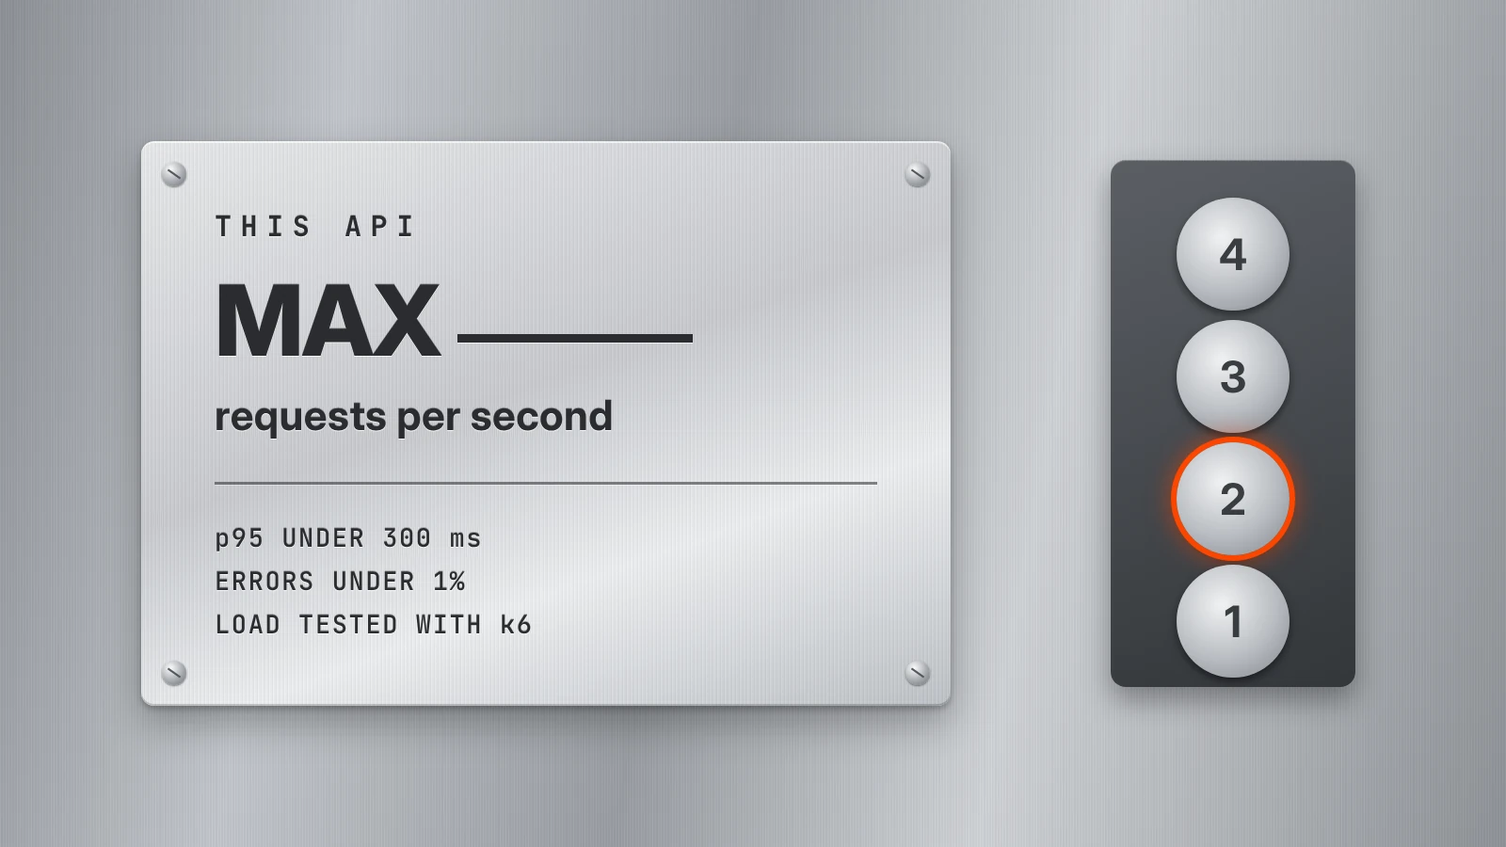
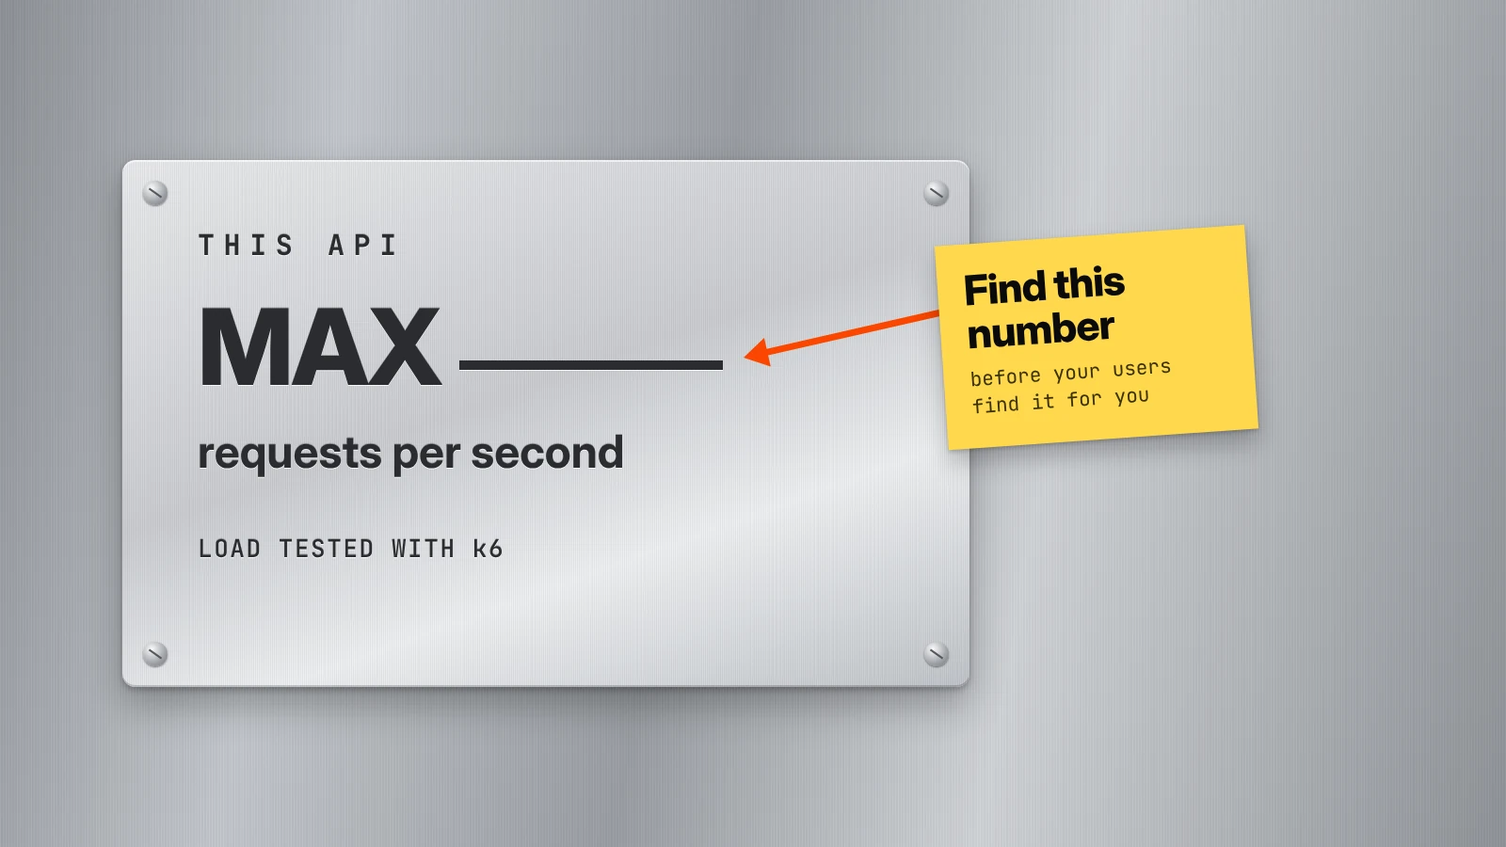
Rewrite the k6 post in plain language, with clearer pictures
- Simpler wording throughout; every term (virtual user, p95, threshold,
  arrival rate) is explained the first time it appears.
- Pictures redrawn to explain themselves: a "find this number" note on
  the cover, a new "how k6 works" picture, plain labels on the test
  types, a legend and counts on the virtual users vs real visitors
  timeline, and named zones on the knee chart.
- Phone-sized versions of each diagram (name.mobile.webp) are used on
  small screens, where the wide versions' text would be too small.

Claude-Session: https://claude.ai/code/session_01YYprVqCaWrQBqQXPepenWM

Changed region(s): [[0.0625, 0.1556, 0.9062, 0.84], [0.125, 0.2489, 0.5625, 0.5911], [0.125, 0.6222, 0.375, 0.7467]]

diff --git a/posts.plugin.ts b/posts.plugin.ts
@@ -3,7 +3,7 @@
 //   post.md?html  ->  export default "<p>...</p>"
 // Two separate modules, so pages that only list posts never download a post's HTML.
 // Markdown parsing and code highlighting happen here, so none of it ships to the browser.
-import { readFileSync } from "node:fs";
+import { existsSync, readFileSync } from "node:fs";
 import { basename, join } from "node:path";
 import { imageSize } from "image-size";
 import { Marked, Renderer, type Tokens } from "marked";
@@ -75,7 +75,14 @@ export default function posts(): Plugin {
         const loading = imagesSeen++ === 0 ? 'fetchpriority="high"' : 'loading="lazy"';
         const cover = imagesSeen === 1;
         let img = `<img src="${esc(href)}" alt="${esc(text)}" width="${width}" height="${height}" ${loading} decoding="async">`;
-        // Diagrams are dense on a phone: tapping one opens it full size.
+        // A phone-sized version next to the image (diagram.mobile.webp) is used on small screens,
+        // where the wide version's text would be too small to read.
+        const mobile = href.replace(/(\.[a-z]+)$/, ".mobile$1");
+        if (existsSync(join(publicDir, mobile))) {
+          const m = sizeOf(mobile);
+          img = `<picture><source media="(max-width: 560px)" srcset="${esc(mobile)}" width="${m.width}" height="${m.height}">${img}</picture>`;
+        }
+        // Tapping a diagram opens it full size.
         if (!cover) img = `<a class="post-figure__zoom" href="${esc(href)}" target="_blank" rel="noopener">${img}<span class="sr-only"> (opens full size)</span></a>`;
         return `<figure class="post-figure${cover ? " post-figure--cover" : ""}">${img}${title ? `<figcaption>${esc(title)}</figcaption>` : ""}</figure>`;
       },

diff --git a/src/pages/PostPage.tsx b/src/pages/PostPage.tsx
@@ -42,7 +42,7 @@ export default function PostPage({ post, html }: PostPageProps) {
   useCopyButtons(articleRef);
 
   // Image paths in the post are site-absolute; file() keeps them working in relative builds.
-  const body = html.replace(/(src|href)="\/images\//g, `$1="${file("/images/")}`);
+  const body = html.replace(/(src|srcset|href)="\/images\//g, `$1="${file("/images/")}`);
 
   return (
     <>

diff --git a/src/posts/will-it-break-in-prod.md b/src/posts/will-it-break-in-prod.md
@@ -1,55 +1,57 @@
 ---
 title: Will It Break in Prod?
-description: Your tests check one user at a time. Production never sends you one user at a time. How to use k6 to find your app's limit before your users do.
+description: Your app works when you test it alone. Here's how to find out what happens when hundreds of people use it at once, with a free tool called k6.
 date: 2026-11-10
 tags: performance, testing, k6
 cover: /images/writing/will-it-break-in-prod/cover.webp
-coverAlt: A brushed-metal capacity plate, like the one inside an elevator, that reads "This API. Max ___ requests per second. p95 under 300 ms. Errors under 1%. Load tested with k6."
+coverAlt: A metal capacity plate, like the one inside an elevator, that reads "This API. Max ___ requests per second." A sticky note next to the blank says "find this number".
 ---
 
-**Your app passed every test. That proves it works for one person at a time. Production never sends you one person at a time.**
+**Your app works when you test it. But when you test it, you're one person. Real users show up hundreds at a time.**
 
-![A brushed-metal capacity plate, like the one inside an elevator, that reads "This API. Max ___ requests per second. p95 under 300 ms. Errors under 1%. Load tested with k6."](/images/writing/will-it-break-in-prod/cover.webp)
+![A metal capacity plate, like the one inside an elevator, that reads "This API. Max ___ requests per second." A sticky note next to the blank says "find this number".](/images/writing/will-it-break-in-prod/cover.webp)
 
-Every elevator has a small metal plate inside: *max 13 persons, 1,000 kg*. Nobody guessed that number. Someone loaded the elevator until they knew where the limit was, then wrote it down with a margin.
+Every elevator has a small metal plate inside that says something like *max 13 people*. Nobody guessed that number. Someone loaded the elevator until they found its limit, then wrote it down with some room to spare.
 
-Most APIs ship without that plate. We know the endpoint returns the right answer. We don't know how many people it can serve before it slows down, starts timing out, or falls over. Usually we find out on the day real traffic shows up.
+Most apps don't have that plate. We know the app gives the right answer. We don't know how many people it can handle before it gets slow or stops working. Usually we find out the hard way, on the day a lot of people show up.
 
-This post is about finding that number first, with k6.
+This post shows how to find that number before your users do, with a free tool called k6.
 
-### Aren't My Tests Enough?
+### Why Don't My Tests Catch This?
 
-Unit and integration tests answer one question: *is it correct?* They usually ask it with a single caller, on a quiet machine, against a tiny database.
+Normal tests check that your code gives the right answer. They do it one request at a time, on a quiet computer, with a small database. That's not what production looks like.
 
-The bugs that take an app down in production mostly don't exist at that scale. They show up when requests overlap:
+Most things that break under load only break when many requests arrive at the same time:
 
-- **The connection pool runs out.** Spring Boot's default pool (HikariCP) holds 10 database connections. Request 11 waits in line, and so does everyone after it.
-- **Threads run out.** Tomcat handles 200 requests at a time by default. Request 201 queues.
-- **A query that takes 5 ms alone** can take far longer when 50 copies of it fight over the same rows.
-- **An N+1 query**, one query for the list and one more for every item in it, is invisible with one user and painful with a hundred.
-- **Memory fills up slowly**, and garbage collection pauses start showing up in your response times hours later.
+- **Too many requests wait for the database.** Your app keeps a small set of database connections and shares them. Spring Boot's default is 10. If 50 requests need the database at once, 40 of them wait in line.
+- **The server runs out of workers.** A server works on a limited number of requests at once (200 by default in Spring Boot). Everyone else waits.
+- **Requests get in each other's way.** A query that takes 5 ms on its own can take much longer when 50 copies of it try to change the same rows.
+- **Small waste adds up.** Code that runs one extra database query for every item in a list is fine with one user and painful with a hundred.
+- **Memory slowly fills up.** Everything looks fine for a while, then the app starts pausing to clean up memory and responses get slow.
 
-None of this fails a unit test. It usually goes like this:
+None of these show up in a normal test. In real life it goes like this:
 
 > **Me:** It's fast. 12 ms on my laptop.
 >
 > **Production, Monday 9 AM:** Cool. Here are 400 people.
 
-### So What Is k6?
+### What Is k6?
 
-[k6](https://grafana.com/oss/k6/) is an open-source load testing tool from Grafana Labs. Its own tagline is "like unit testing, for performance," which is a fair description. You write the test in JavaScript, and k6 runs it from a single Go binary, so one laptop can pretend to be hundreds of users.
+k6 is a free, open-source tool from Grafana Labs for load testing: sending a lot of traffic to your app on purpose to see how it holds up.
 
-The main idea is the **virtual user (VU)**. A VU is a loop that runs your test function over and over, like one person clicking through your app. Ask for 50 VUs and k6 runs 50 of those loops at the same time, then measures every request they make.
+You write a short JavaScript script that describes what one visitor does, like "open this page." Then you tell k6 how many visitors to pretend to be. k6 calls these pretend visitors **virtual users**. Each one runs your script over and over, and k6 times every request and counts the ones that fail.
 
-On a Mac, installing it is one line:
+![A diagram in four steps. k6 runs on your laptop. It starts virtual users, which are pretend visitors that repeat your script. They send requests to your app. k6 then reports how fast your app answered and how many requests failed.](/images/writing/will-it-break-in-prod/how-k6-works.webp "k6 pretends to be many visitors at once, then tells you how your app held up.")
+
+To install it on a Mac:
 
 ```bash
 brew install k6
 ```
 
-### What Does the Simplest Test Look Like?
+### Your First Test
 
-Start with a **smoke test**: one user, thirty seconds. It tells you nothing about load yet. It tells you the script works and the endpoint answers.
+Start small. This script pretends to be one visitor for 30 seconds:
 
 ```js
 import http from "k6/http";
@@ -71,25 +73,30 @@ export default function () {
 }
 ```
 
-Run it with `k6 run smoke.js`. When it finishes, k6 prints a summary: how many requests went out, how many failed, and how long they took.
+Save it as `smoke.js` and run `k6 run smoke.js`. Here's what each part does:
 
-`check` works like an assertion that doesn't stop the test. It counts passes and failures, so you see "98% of responses were 200" instead of a crash on the first bad one.
+- `vus: 1` and `duration: "30s"`: one virtual user, for 30 seconds.
+- `http.get(...)`: the visitor opens this address.
+- `check(...)`: makes sure the answer is right (status 200 means "OK"). A failed check doesn't stop the test. k6 just counts how many passed.
+- `sleep(1)`: wait one second, like a real person reading the page before clicking again.
+
+This is called a **smoke test**. It doesn't tell you anything about heavy traffic yet. It just proves the script works before you turn up the volume.
 
 ### What Does "Fast Enough" Mean?
 
-Before adding users, decide what passing looks like. Here's the trap: **averages lie.**
+Before adding more users, decide what "good" looks like. Watch out for one trap: **the average lies.**
 
-Say 100 requests come in. 90 of them take 20 ms and 10 of them take 2 seconds.
+Imagine 100 requests. 90 of them take 20 ms. The other 10 take 2 full seconds.
 
-| Stat | Value | What it tells you |
+| Measure | Result | What it makes you think |
 | --- | --- | --- |
-| Average | 218 ms | "Looks fine." |
-| Median (p50) | 20 ms | "Looks great." |
-| p95 | 2,000 ms | Real people waited two seconds. |
+| Average | 218 ms | "Fine." |
+| Median | 20 ms | "Great." |
+| p95 | 2,000 ms | "Some people waited two seconds." |
 
-p95 is the time that 95% of requests finished within. It looks at the slow end, and the slow end is where users get annoyed and leave.
+**p95** is the time that 95 out of 100 requests finished within. It looks at the slowest part of your traffic, and that's the part people notice.
 
-In k6 you write the passing line down as a **threshold**:
+In k6 you write your goal down as a **threshold**, a pass or fail line:
 
 ```js
 export const options = {
@@ -100,50 +107,50 @@ export const options = {
 };
 ```
 
-If any threshold fails, k6 marks the run as failed and exits with code 99. So you can put a short k6 test in CI and fail the build when a change makes things slower, the same way a failing unit test does.
+If either line is crossed, k6 marks the test as failed and exits with code 99. So you can run it automatically on every code change and catch a slowdown before it ships, the same way a failing unit test stops a bug.
 
-Where does 300 ms come from? From what your users need, not from what your app happens to do today.
+How do you pick 300 ms? From what your users need, not from whatever your app happens to do today.
 
-### How Many Users Is "a Lot"?
+### How Many Users Should I Test With?
 
-Different questions need different shapes of load. The k6 docs group them into a handful of test types:
+Different questions need different kinds of tests. The k6 docs name six:
 
-![Six small charts of virtual users over time: smoke is flat and low, average load ramps up and holds, stress ramps higher and holds, spike jumps up and drops, soak holds a normal level for a long time, and breakpoint keeps rising.](/images/writing/will-it-break-in-prod/test-types.webp "Same script, six shapes of load.")
+![Six small charts of users over time. Smoke: one or two users. Average load: climb to normal traffic and stay there. Stress: climb above normal and stay there. Spike: jump to a lot of users at once, then drop. Soak: normal traffic for hours. Breakpoint: keep adding users until the app fails.](/images/writing/will-it-break-in-prod/test-types.webp "Same script, six kinds of traffic.")
 
-| Test | The question it answers | Shape |
+| Test | The question it answers | What the traffic looks like |
 | --- | --- | --- |
-| Smoke | Does the script even work? | 1–2 users, a minute or two |
-| Average load | Are we fine on a normal day? | Ramp up to normal traffic, hold it |
-| Stress | Are we fine on the busiest day? | Ramp above normal traffic, hold it |
-| Spike | What if everyone shows up at once? | Jump straight to a lot, then drop |
+| Smoke | Does my script even work? | 1–2 users for a minute or two |
+| Average load | Are we fine on a normal day? | Climb to normal traffic and stay there |
+| Stress | Are we fine on our busiest day? | Climb above normal traffic and stay there |
+| Spike | What if everyone shows up at once? | Jump straight to a lot of users, then drop |
 | Soak | Do we stay fine for hours? | Normal traffic, for a long time |
-| Breakpoint | Where exactly do we break? | Keep adding load until something fails |
+| Breakpoint | Where exactly do we break? | Keep adding users until something fails |
 
-To shape the load, use `stages`. Each stage moves the number of VUs to a target over a duration:
+You describe the shape with `stages`. Each stage says "get to this many users over this much time":
 
 ```js
 export const options = {
   stages: [
-    { duration: "2m", target: 50 }, // ramp up to 50 users
-    { duration: "5m", target: 50 }, // stay there
-    { duration: "2m", target: 0 },  // ramp down
+    { duration: "2m", target: 50 }, // climb to 50 users over 2 minutes
+    { duration: "5m", target: 50 }, // stay at 50 for 5 minutes
+    { duration: "2m", target: 0 },  // go back down to 0
   ],
 };
 ```
 
-What counts as normal traffic? If you have real numbers, use them: requests per second at your busiest hour, from your logs or monitoring. If you don't have traffic yet, estimate, and write down that it's an estimate so nobody mistakes it for a measurement later.
+Where do the numbers come from? If your app already has users, look at your busiest hour in your logs or monitoring. If it doesn't, make a sensible guess, and write down that it's a guess.
 
-### Wait, Real Users Don't Take Turns
+### Real Users Don't Wait Their Turn
 
-This is the part that's easy to miss.
+Here's a detail that's easy to miss.
 
-A VU sends its next request only after the previous one comes back. So when your server slows down, the VUs slow down with it, and fewer requests arrive. The test eases off right when your app is struggling.
+A virtual user sends a request, waits for the answer, and only then sends the next one. So when your app slows down, the virtual users slow down with it, and fewer requests come in. The test goes easy on your app right when it's struggling.
 
-Real users don't do that. They keep arriving whether your server is having a good day or not.
+Real people don't do that. New visitors keep arriving whether your app is fast or slow.
 
-![Two timelines. With virtual users, each new request waits for the previous response, so when responses get slow, fewer requests are sent. With a fixed arrival rate, new requests keep coming on schedule, so slow responses pile up and overlap.](/images/writing/will-it-break-in-prod/arrival-rate.webp "Virtual users wait for answers. Real traffic doesn't.")
+![Two timelines side by side in time. Top: k6 virtual users. Each new request waits for the previous answer, so when the app gets slow, only a few new requests are sent. Bottom: real visitors. New requests keep arriving on schedule, so when the app gets slow, they pile up on top of each other.](/images/writing/will-it-break-in-prod/arrival-rate.webp "When the app slows down, virtual users back off. Real visitors don't.")
 
-If your question is "can we handle 100 requests per second?", tell k6 exactly that with an **arrival-rate** executor. It starts new iterations at a fixed rate and brings in more VUs when it needs them:
+If your question is "can we handle 100 requests per second?", tell k6 exactly that. An **arrival-rate** test starts new requests on a fixed schedule, no matter how slow the answers are:
 
 ```js
 export const options = {
@@ -151,12 +158,12 @@ export const options = {
     orders: {
       executor: "ramping-arrival-rate",
       startRate: 10,
-      timeUnit: "1s", // rates below are per second
+      timeUnit: "1s", // the rates below are per second
       preAllocatedVUs: 50,
       maxVUs: 500,
       stages: [
-        { duration: "3m", target: 100 }, // up to 100 per second
-        { duration: "5m", target: 100 }, // hold
+        { duration: "3m", target: 100 }, // climb to 100 per second
+        { duration: "5m", target: 100 }, // stay there
         { duration: "3m", target: 300 }, // then push past it
       ],
     },
@@ -164,68 +171,68 @@ export const options = {
 };
 ```
 
-The rate counts iterations, so with one request per iteration it's requests per second. If k6 runs out of VUs and can't keep up, it counts the misses in a metric called `dropped_iterations`. If that number isn't zero, the load you asked for isn't the load you got.
+Each "per second" here counts runs of your test function. With one request per run, that's requests per second. If k6 runs out of virtual users and can't start a run on time, it counts it in `dropped_iterations`. If that number isn't zero, you didn't actually send the traffic you asked for.
 
-### How Do I Read the Results?
+### Reading the Results
 
-The summary k6 prints at the end has a lot of lines. Start with these:
+When the test ends, k6 prints a summary. It has a lot of lines. Start with these:
 
-| Metric | What it is | What to look for |
+| What k6 calls it | What it means | What to look for |
 | --- | --- | --- |
-| `http_req_duration` | How long each request took | p95 and p99, not the average |
-| `http_req_failed` | Share of requests that failed | Anything above zero, and when it started |
+| `http_req_duration` | How long requests took | The p95 and p99, not the average |
+| `http_req_failed` | How many requests failed | Anything above zero, and when it started |
 | `checks` | How many of your checks passed | Under 100% means wrong answers, not just slow ones |
-| `iterations` | How many times your test function ran | Did you send the load you planned? |
-| `dropped_iterations` | Iterations k6 couldn't start | Should be zero in arrival-rate tests |
+| `iterations` | How many times your script ran | Did you send as much traffic as you planned? |
+| `dropped_iterations` | Runs k6 couldn't start on time | Should be zero in arrival-rate tests |
 
-By default the summary shows p90 and p95 but not p99. Add `summaryTrendStats: ["avg", "med", "p(95)", "p(99)", "max"]` to `options` if you want it.
+By default the summary shows p90 and p95. To see p99 too, add `summaryTrendStats: ["avg", "med", "p(95)", "p(99)", "max"]` to your options.
 
-One summary also hides *when* things went wrong. To watch the test while it runs, turn on the web dashboard:
+The summary at the end doesn't show *when* things went wrong. To watch live graphs while the test runs:
 
 ```bash
 K6_WEB_DASHBOARD=true k6 run load.js
 ```
 
-Then open `http://localhost:5665`. To save the same charts as a file, add `K6_WEB_DASHBOARD_EXPORT=report.html`.
+Then open `http://localhost:5665` in your browser. Add `K6_WEB_DASHBOARD_EXPORT=report.html` to save the graphs as a file.
 
-What you're looking for is the **knee**: the point where response time stops being flat and starts climbing fast. Errors usually come right after it.
+What you're looking for is the **knee**: the point where response times stop being flat and shoot up. Errors usually start right after.
 
-![A line chart of p95 response time against load. The line stays flat as load increases, then bends sharply upward at the knee. Failed requests start appearing just after the knee. A marker just before the knee is labeled as the limit to write down.](/images/writing/will-it-break-in-prod/knee.webp "An illustration of the shape to look for, not real measurements.")
+![A chart of how long people wait as traffic grows. On the left the line is flat: the app keeps up. In the middle the line bends upward: requests start waiting in line. On the right it shoots up and failed requests appear. A dashed line just before the bend marks your limit.](/images/writing/will-it-break-in-prod/knee.webp "The shape to look for. An example, not real measurements.")
 
-The load right before the knee is your elevator plate. Write it down, with a margin.
+The traffic level just before the knee is your number. That's what goes on your elevator plate, with some room to spare.
 
-### k6 Says It's Slow. But Why?
+### k6 Shows That It's Slow, Not Why
 
-k6 tells you *that* something got slow. It can't see inside your app to tell you *why*. So while the test runs, watch the server side too:
+k6 only sees your app from the outside. To find the cause, watch your server while the test runs:
 
-- database connections in use, and how long requests wait to get one
+- how many database connections are in use, and how long requests wait for one
 - CPU and memory on the app server and the database
-- garbage collection pauses, if you're on the JVM
-- the slow query log
+- pauses to clean up memory (garbage collection), if your app runs on Java
+- your database's slow query log
 
-Usually one of these hits its ceiling right at the knee. That's your bottleneck. Fix it, run the same test again, and see whether the knee moves to the right.
+Usually one of these hits its limit right at the knee. That's your bottleneck. Fix it, run the same test again, and see if the knee moves to the right.
 
-### What Can Still Go Wrong?
+### Ways to Fool Yourself
 
-A load test is only as honest as its setup. A few ways to fool yourself:
+A load test is only as honest as its setup. Watch out for these:
 
-- **Your test database is tiny.** A query over a thousand rows is fast. The same query over ten million rows may not be. Test with production-sized data.
-- **Every request is the same.** Asking for `/orders/42` a thousand times mostly tests your cache. Load a list of real IDs with `SharedArray` and pick a different one each time.
-- **Your laptop is the bottleneck.** If the machine running k6 is at 100% CPU, you're measuring your laptop, not your server.
-- **localhost has no network.** Real users are far away. Test against a deployed staging environment when you can.
-- **Someone else's API is in the path.** Don't load test your payment provider by accident. Use their sandbox or a mock.
-- **Production is not your test lab.** If you really need to test production, plan it with the people who run it, and start small.
+- **A tiny test database.** A query over a thousand rows is fast. The same query over ten million rows might not be. Test with a realistic amount of data.
+- **The same request every time.** Asking for `/orders/42` a thousand times mostly tests your cache. Use a list of different IDs (k6's `SharedArray` helps with that).
+- **Your laptop is the bottleneck.** If the computer running k6 is at 100% CPU, you're measuring your laptop, not your app.
+- **localhost is too fast.** Real users are far away, on real networks. Test against a deployed staging server when you can.
+- **Someone else's service is in the way.** Don't load test your payment provider by accident. Use their sandbox or a fake version.
+- **Testing production.** If you really have to, plan it with the people who run it, and start small.
 
-### Conclusion
+### Where to Start
 
-You don't need a big setup to start. A twenty-line script, two thresholds, and an hour of watching graphs will tell you more about your app than another week of guessing.
+You don't need a big setup. A short script, two thresholds, and an hour of watching graphs will teach you more about your app than another week of guessing.
 
-| Situation | Run this first |
+| Your situation | Start with |
 | --- | --- |
-| Before the first launch | Smoke, then average load |
-| A big day is coming (launch, sale, demo) | Stress and spike |
-| The app gets slower after running for days | Soak |
-| You need a number for capacity planning | Breakpoint, with an arrival-rate executor |
-| On every pull request | A short smoke test with thresholds, in CI |
+| Before the first launch | A smoke test, then an average-load test |
+| A big day is coming (a launch, a sale, a demo) | Stress and spike tests |
+| The app gets slower after running for days | A soak test |
+| You need to know your limit | A breakpoint test with an arrival rate |
+| Every pull request | A short smoke test with thresholds, in CI |
 
-Find your elevator plate before your users find it for you. And if you have a friend who says "it works on my machine," send them this.
+Find your number before your users find it for you. And if you have a friend who says "it works on my machine," send them this.
